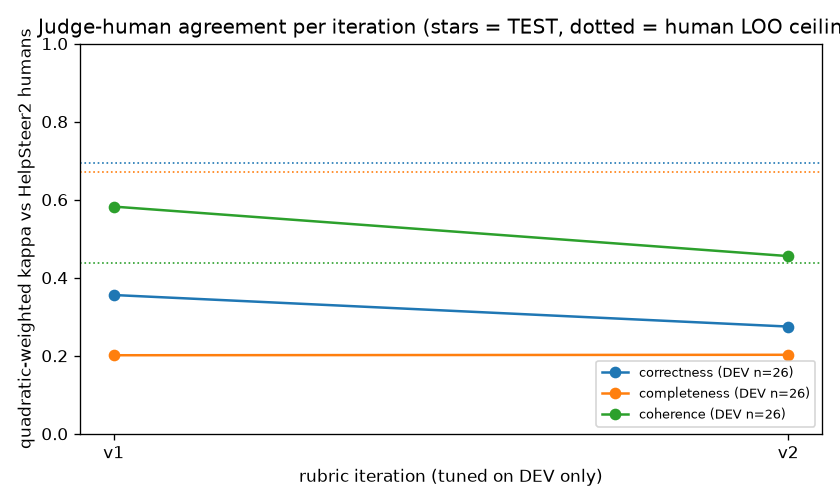
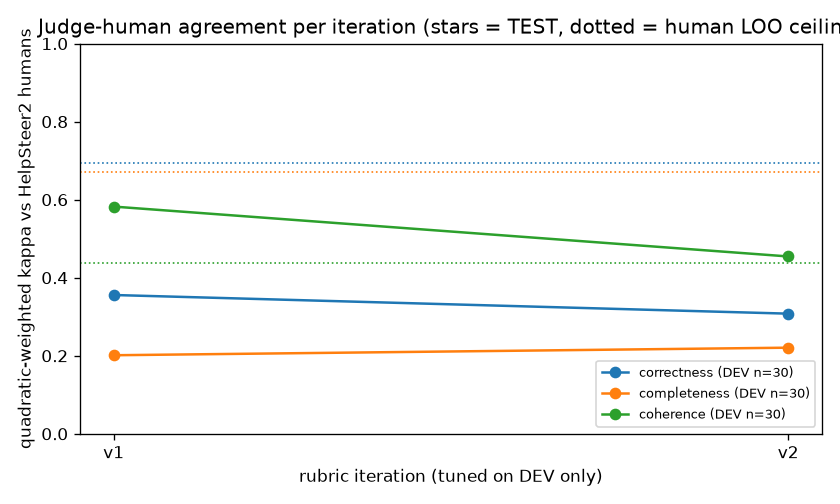
feat(rubric): keep v1 as release rubric (v2 lost on the DEV subset: mean QWK 0.33 vs 0.38)

diff --git a/rubrics/CHANGELOG.md b/rubrics/CHANGELOG.md
@@ -42,3 +42,19 @@ Anchors: one per score point for correctness and completeness and three for cohe
 paraphrased from `data/anchor_pool.jsonl` (HelpSteer2 items whose prompts are not in DEV or TEST,
 annotator spread <= 1). The guide suggests 2-3 per point; one was used to stay inside the free-tier
 token quota (each anchor adds ~50 prompt tokens to every judge call).
+
+## Outcome: v1 kept as the release rubric (pre-declared rule: higher mean DEV-subset QWK)
+
+DEV subset, 6 items per human helpfulness level (n = 30, the same items for both rubrics;
+`results/dev_subset_ids.jsonl`). Values from `results/calibration_summary.json` (`dev_subset`):
+
+| | correctness | completeness | coherence | mean |
+|---|---:|---:|---:|---:|
+| v1 | 0.36 | 0.20 | 0.58 | 0.38 |
+| v2 | 0.31 | 0.22 | 0.45 | 0.33 |
+
+v2 lowered the judge's leniency on correctness and completeness (means closer to the human means) but
+did not improve rank agreement, and it lost on coherence. Two v2 rules backfired: "work out arithmetic
+yourself" (the judge re-derived a wrong total and accepted a wrong answer, `hs2-train-15036`) and the
+"underspecified -> clarifying question" exception, applied to clear requests (`hs2-train-01124`).
+A v3 that drops those two rules is the next iteration; not run (free-tier quota).
